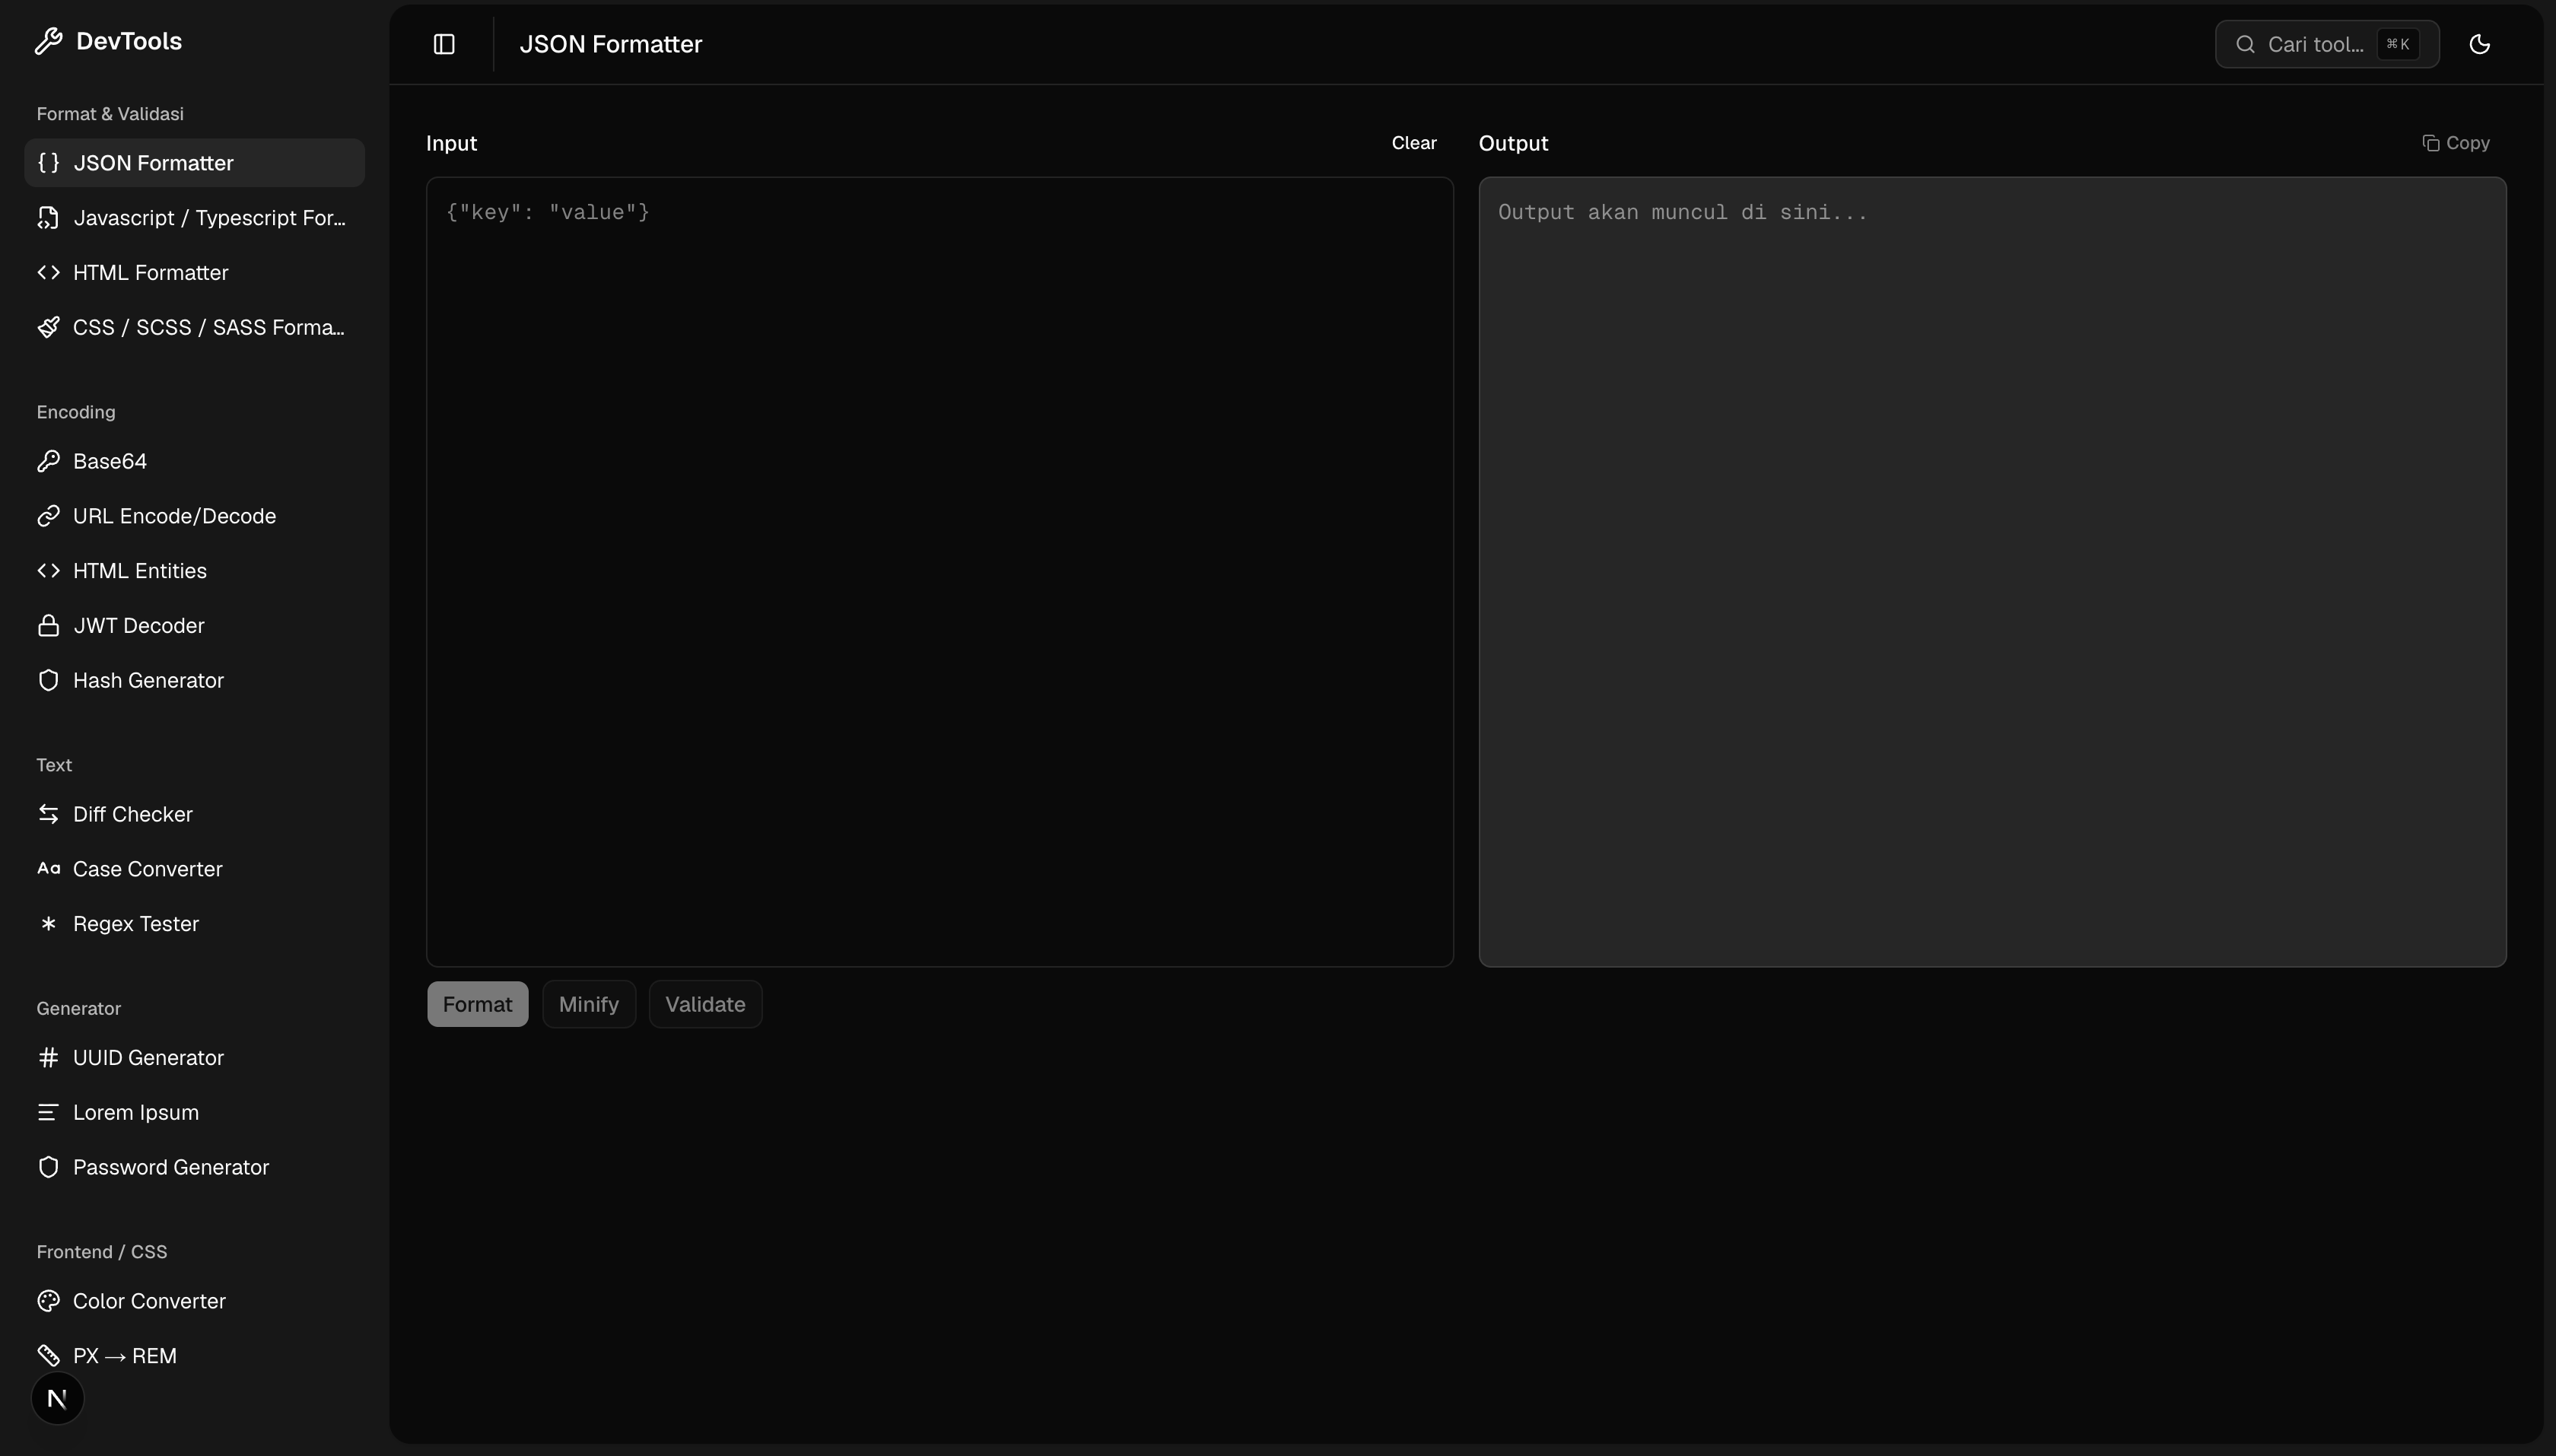
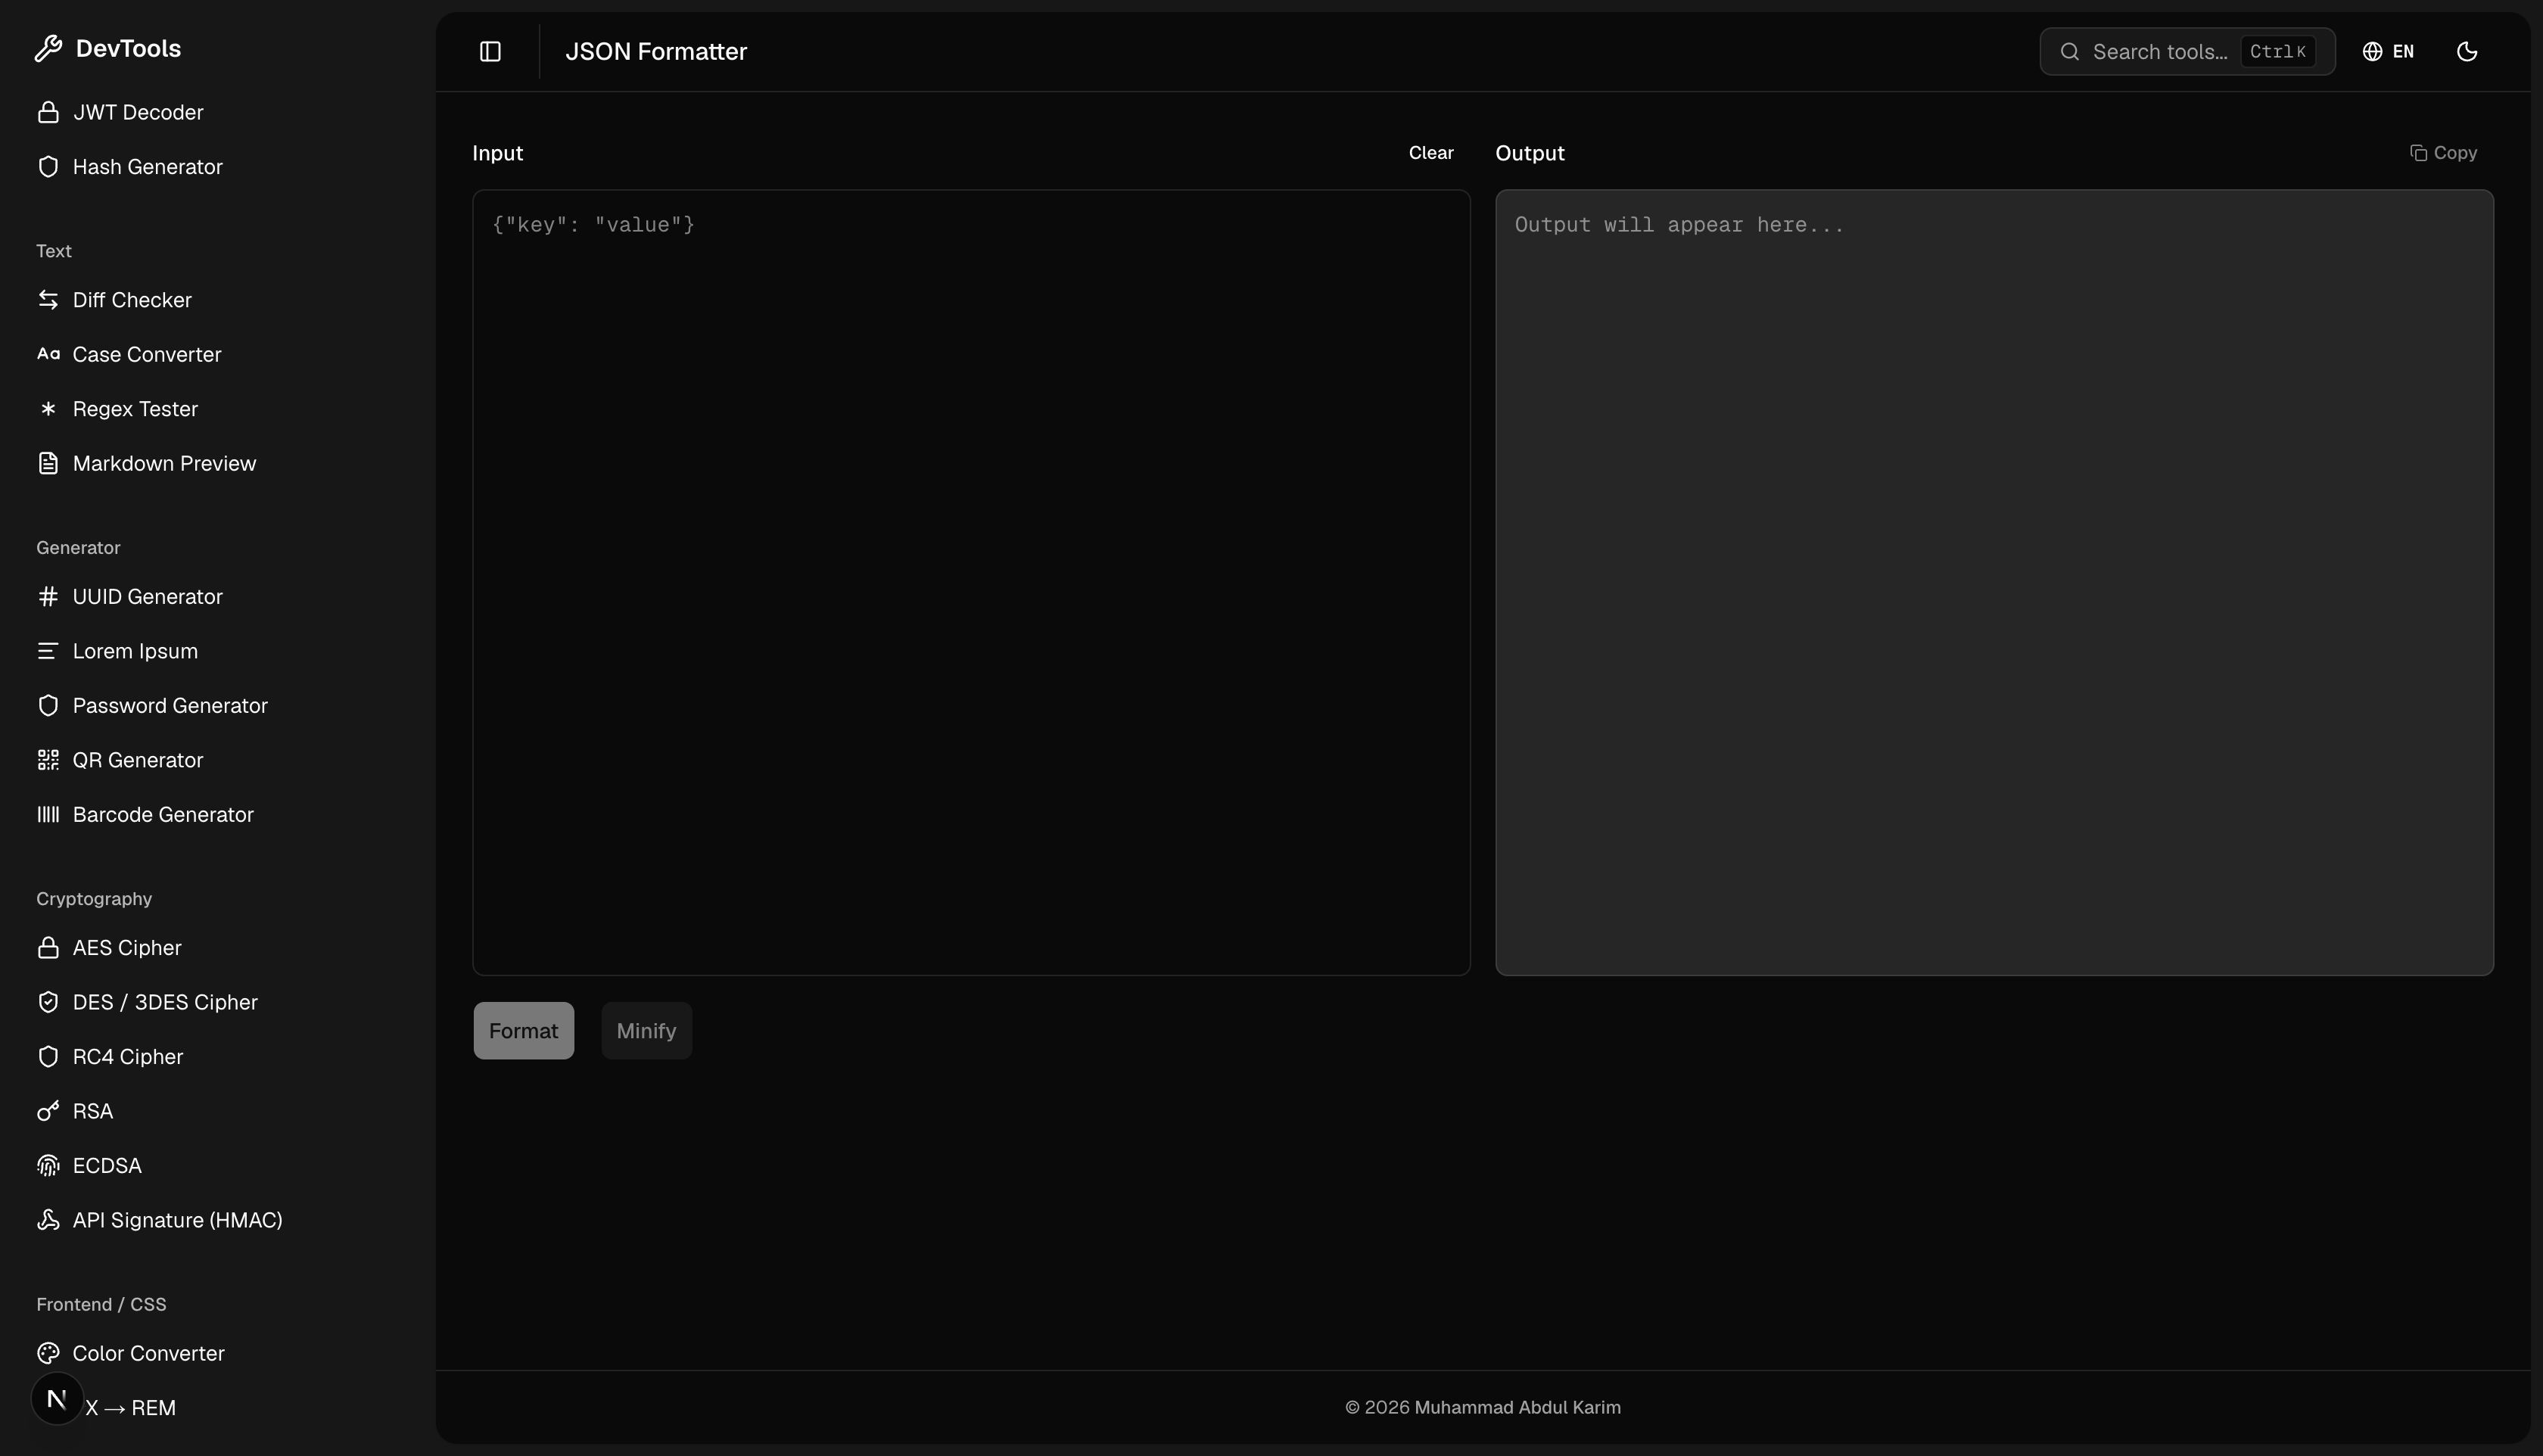
update content devtools

diff --git a/CLAUDE.md b/CLAUDE.md
@@ -1,1 +1,73 @@
+# CLAUDE.md
+
+This file provides guidance to Claude Code (claude.ai/code) when working with code in this repository.
+
 @AGENTS.md
+
+## Commands
+
+```bash
+npm run dev        # Start development server
+npm run build      # Production build
+npm run lint       # ESLint
+npm run lint:fix   # ESLint with auto-fix
+```
+
+There are no automated tests in this project.
+
+## Architecture
+
+This is a personal portfolio site built with **Next.js 16 App Router**, **Once UI** (`@once-ui-system/core`), and **SCSS Modules**. Content is authored in MDX files; there is no database or CMS.
+
+### Content pipeline
+
+Blog posts live in `src/app/blog/posts/*.mdx` and project write-ups in `src/app/work/projects/*.mdx`. Both use gray-matter frontmatter. `src/utils/utils.ts` provides `getPosts()` which reads these files from disk at build time using Node `fs` — this runs only on the server.
+
+### Configuration
+
+All site-wide text and toggles are in two files:
+
+- **`src/resources/content.tsx`** — person info, social links, and the full content for the home, about, blog, and work sections (including JSX nodes for rich text). This is the primary file to edit for portfolio content.
+- **`src/resources/once-ui.config.ts`** — routing, display flags (`location`, `time`, `themeSwitcher`, `languageSwitcher`), styles, effects, and Mailchimp config.
+
+Both are re-exported from `src/resources/index.ts` and imported everywhere else.
+
+### i18n
+
+Language switching (English ↔ Indonesian) is implemented client-side via React Context:
+
+- **`src/i18n/en.ts`** and **`src/i18n/id.ts`** — translation dictionaries (UI strings only — nav labels, section titles, intro description, button labels)
+- **`src/context/LanguageContext.tsx`** — `LanguageProvider` + `useLanguage()` hook; preference persisted in `localStorage`
+- **`src/components/LanguageToggle.tsx`** — toggle button rendered in the Header
+
+Work experience achievements and technical skill descriptions in `content.tsx` are kept in English only and are not translated.
+
+### Page architecture pattern
+
+Pages that need translations cannot export both `generateMetadata` (server) and `"use client"`. The pattern used is:
+
+- `app/page.tsx` / `app/about/page.tsx` — thin server components that export `generateMetadata` and `<Schema>`, then render a client component
+- `src/components/home/HomeContent.tsx` / `src/components/about/AboutContent.tsx` — `"use client"` components that consume `useLanguage()` and own all the visible JSX
+- Server components (`<Projects>`, `<Posts>`) are passed as `children` props into client components so they retain server-rendering
+
+### Component conventions
+
+- All shared components are in `src/components/` and barrel-exported from `src/components/index.ts`
+- UI primitives (`Row`, `Column`, `Heading`, `Text`, `Button`, etc.) come from `@once-ui-system/core` — do not add a separate UI library
+- Scoped styles use SCSS Modules (`.module.scss`) co-located with their component
+- Icons are registered in `src/resources/icons.ts` and referenced by name string (`IconName` type)
+
+### MDX project/post frontmatter shape
+
+```yaml
+title: string
+publishedAt: string       # YYYY-MM-DD
+summary: string
+images: string[]          # paths under /public
+team:
+  - name, role, avatar, linkedIn
+link: string              # optional external URL
+techStack:                # optional
+  - name, icon            # icon must be an IconName
+tag: string               # optional
+```